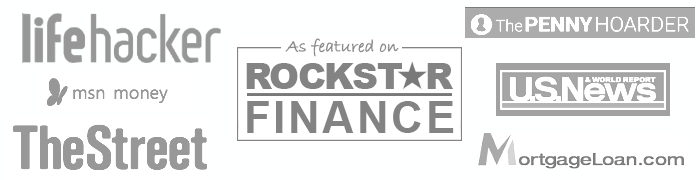
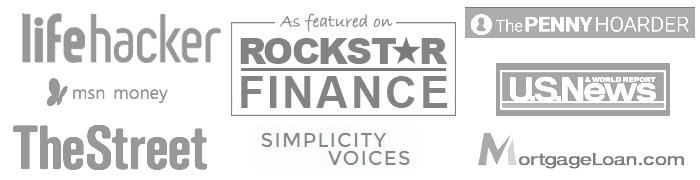
update inlinks

Changed region(s): [[0.33, 0.1944, 0.66, 0.9167], [0.33, 0.0833, 0.66, 0.1667]]

diff --git a/about.md b/about.md
@@ -19,7 +19,7 @@ We're focused on three big goals and approaches at the moment:
 
 # Living Better with Less #
 
-We don't get much enjoyment out of stuff, so we tend to focus on experiences instead ([with a few exceptions]({% post_url 2016-07-14-experience-or-stuff %})). We'd describe ourselves as minimalists, mostly because we've found that life is a lot more fun when you don't have the "mental tax" of too much stuff weighing you down.
+We don't get much enjoyment out of stuff, so we tend to focus on experiences instead ([with a few exceptions]({% post_url 2016-07-14-experience-or-stuff %})). We'd describe ourselves as minimalists, mostly because we've found that [life is a lot more fun]({% post_url 2016-10-10-become-twice-as-happy-with-half-as-much %}) when you don't have the "mental tax" of too much stuff weighing you down.
 
 In addition, keeping our possessions to a reasonable level gives us additional flexibility and keeps our money in our bank accounts instead of tied up in items in our closets.
 
@@ -55,12 +55,15 @@ I've been blessed to have articles from the Keep Thrifty blog featured on [Rocks
 
 Beyond this, I've also been featured on a number of great sites:
 
-* Lifehacker - [When Buying "Experiences" Isn't Actually Better than Buying Stuff](http://lifehacker.com/when-buying-experiences-isnt-actually-better-than-buy-1784756372){: target="_blank"}
+* Lifehacker - [Find Out How Many Days of Retirement Your Contributions Can Buy With This Tool](http://lifehacker.com/find-out-how-many-days-of-retirement-your-contributions-1788228175){: target="_blank"}
 * The Penny Hoarder - [Why This Woman Doesn’t Regret Selling Her Engagement Ring](http://www.thepennyhoarder.com/would-you-sell-your-engagement-ring-to-make-extra-money/){: target="_blank"}
+* The Financial Diet - [The 7 Personal Finance Articles We Loved This Week](http://thefinancialdiet.com/7-personal-finance-articles-loved-week-3/){: target="_blank"}
 * The Street - [Young Americans Are Shunning Credit Cards](https://www.thestreet.com/story/13499131/1/young-americans-are-shunning-credit-cards.html){: target="_blank"}
 * MortgageLoan.com - [Smart Financial Moves with Your Current Mortgage](https://www.mortgageloan.com/smart-financial-moves-with-your-current-mortgage){: target="_blank"}
 * US News and World Report - [The Financial Benefits of Living with Less](http://money.usnews.com/money/blogs/my-money/articles/2016-05-10/the-financial-benefits-of-living-with-less){: target="_blank"}
 * EQ Bank - [Should you go to Italy or buy a car? Here's how to decide](https://www.eqbank.ca/the-exchange/article-detail?urlName=should-you-go-to-italy-or-buy-a-car-here-s-how-to-decide){: target="_blank"}
+* Lifehacker - [When Buying "Experiences" Isn't Actually Better than Buying Stuff](http://lifehacker.com/when-buying-experiences-isnt-actually-better-than-buy-1784756372){: target="_blank"}
+
 
 
 <hr />
